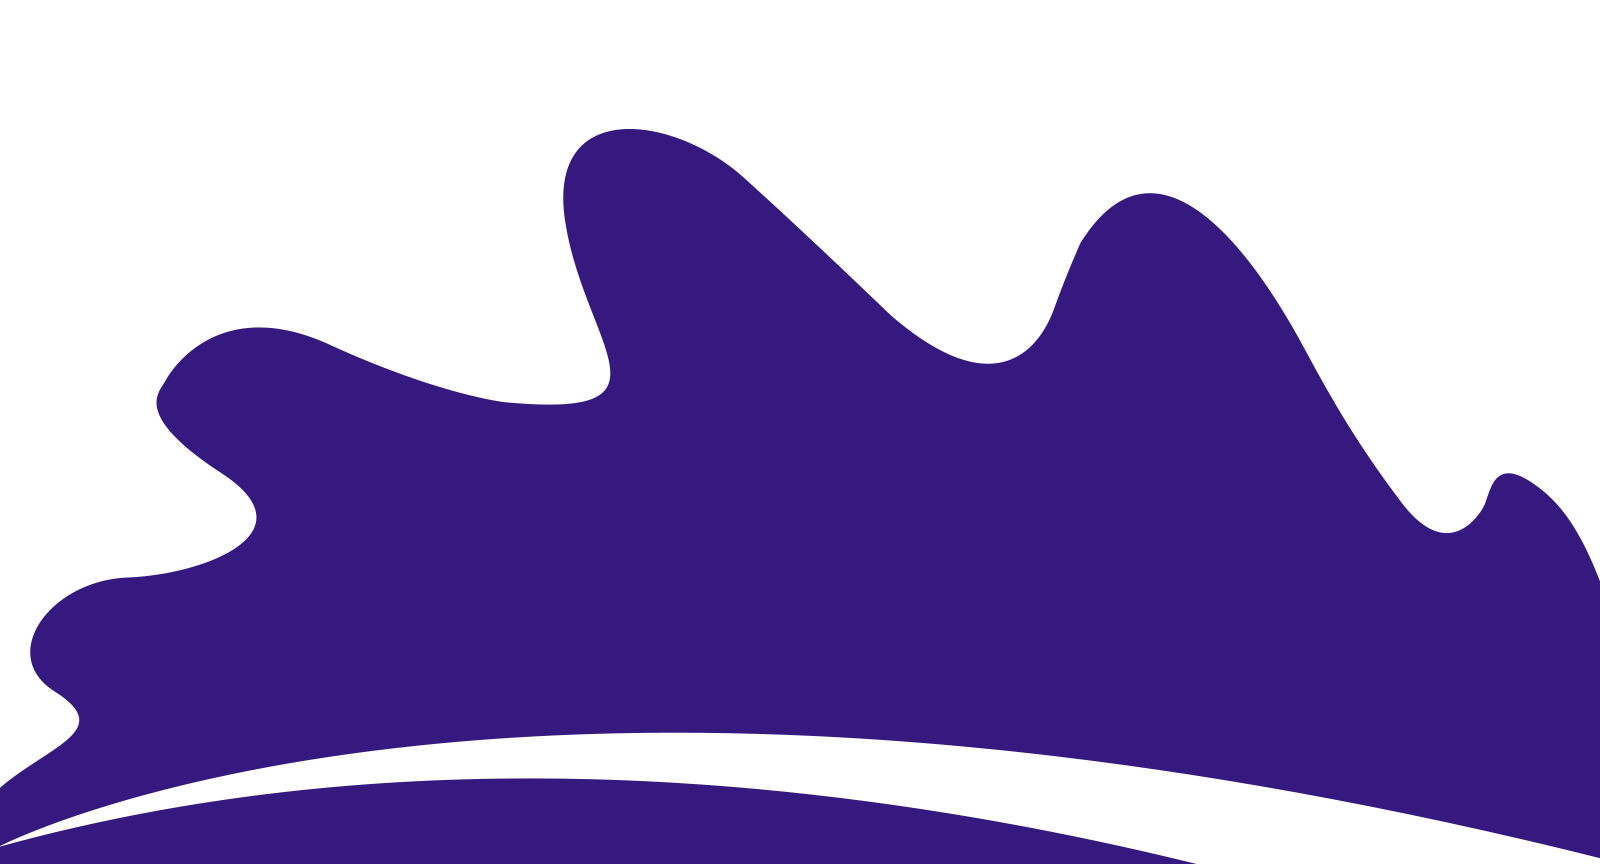
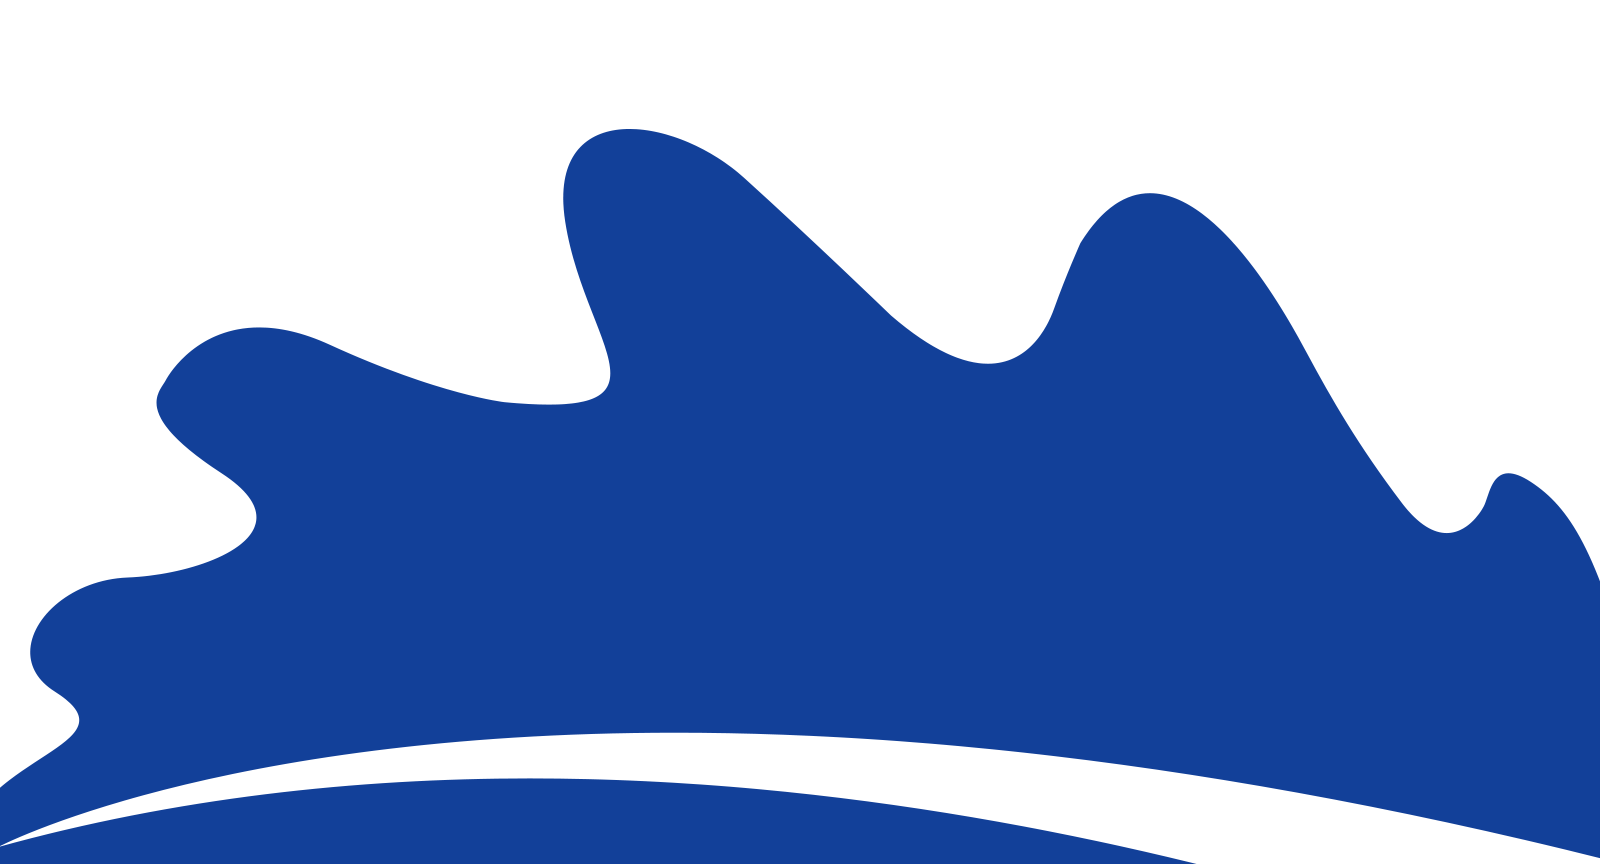
color correction

diff --git a/_pages/portfolio.html b/_pages/portfolio.html
@@ -9,7 +9,7 @@ title: Portfolio
       <div class="col-12">
         <div class="btn-group btn-group-toggle justify-content-center d-flex" data-toggle="buttons">
           <label class="btn btn-sm btn-primary active">
-            <input type="radio" name="shuffle-filter" value="all" checked="checked" />All
+            <input type="radio" name="shuffle-filter" value="all" checked="checked" />Tout
           </label>
           {% for label in site.data.settings.portfolio-label %}
           <label class="btn btn-sm btn-primary">
@@ -26,7 +26,7 @@ title: Portfolio
           <img src="{{ site.baseurl }}/{{ item.image }}" alt="portfolio-image" class="img-fluid rounded w-100 d-block">
           <div class="hover-overlay">
             <div class="hover-content">
-              <a class="btn btn-light btn-sm" href="{{ item.url }}">view project</a>
+              <a class="btn btn-light btn-sm" href="{{ item.url }}">voir le projet</a>
             </div>
           </div>
         </div>

diff --git a/assets/scss/_variables.scss b/assets/scss/_variables.scss
@@ -1,5 +1,5 @@
 // Color Variables
-$primary-color: #41228e;
+$primary-color: #00b4d8;
 $secondary-color: #2bfdff;
 $text-color: #4c4c4c;
 $text-color-dark: #000;

diff --git a/_layouts/default.html b/_layouts/default.html
@@ -2,7 +2,7 @@
 layout: compress
 ---
 <!DOCTYPE html>
-<html lang="en">
+<html lang="fr">
 
 {% include head.html %}
 
